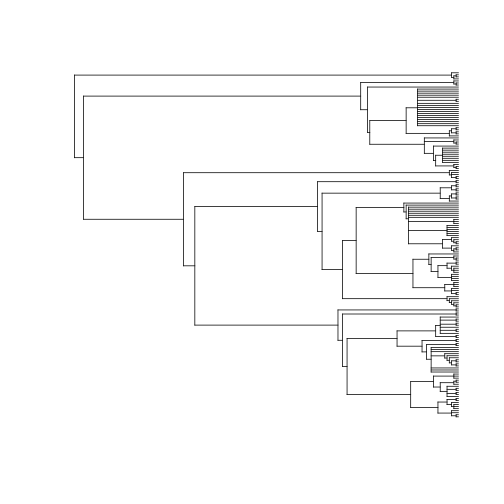
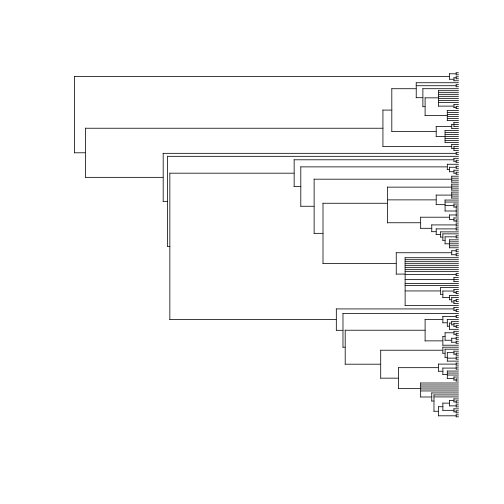
rerun vignette, change vignette file name to just brranching

Changed region(s): [[0.1488, 0.1488, 0.9226, 0.8333]]

diff --git a/inst/vign/brranching.md b/inst/vign/brranching.md
@@ -7,14 +7,7 @@
 brranching - an interface to phylogenetic data
 ======
 
-```{r echo=FALSE}
-knitr::opts_chunk$set(
-  comment = "#>",
-  collapse = TRUE,
-  warning = FALSE,
-  message = FALSE
-)
-```
+
 
 ## Description
 
@@ -24,18 +17,21 @@ Brranching is an interface to many different sources of phylogenetic data (curre
 
 Stable CRAN version
 
-```{r eval=FALSE}
+
+```r
 install.packages("brranching")
 ```
 
 Or dev version
 
-```{r eval=FALSE}
+
+```r
 install.packages("devtools")
 devtools::install_github("ropensci/brranching")
 ```
 
-```{r}
+
+```r
 library("brranching")
 ```
 
@@ -43,17 +39,42 @@ library("brranching")
 
 Query Phylomatic for a phylogenetic tree.
 
-```{r}
+
+```r
 taxa <- c("Poa annua", "Phlox diffusa", "Helianthus annuus")
 tree <- phylomatic(taxa=taxa, get = 'POST')
 plot(tree, no.margin=TRUE)
 ```
 
+![plot of chunk unnamed-chunk-5](figure/unnamed-chunk-5-1.png)
+
 You can pass in up to about 5000 names. We can use [`taxize`](https://github.com/ropensci/taxize/) to get a random set of plant species names.
 
-```{r}
+
+```r
 library("taxize")
 spp <- names_list("species", 200)
 out <- phylomatic(taxa = spp, get = "POST")
 plot(out, show.tip.label = FALSE)
 ```
+
+![plot of chunk unnamed-chunk-6](figure/unnamed-chunk-6-1.png)
+
+## Bladj
+
+
+```r
+library("phylocomr")
+ages_df <- data.frame(
+  a = c('malpighiales','eudicots','ericales_to_asterales','plantaginaceae',
+        'malvids', 'poales'),
+  b = c(81, 20, 56, 76, 47, 71)
+)
+phylo_file <- system.file("examples/phylo_bladj", package = "phylocomr")
+phylo_str <- readLines(phylo_file)
+x <- rbladj(tree = phylo_str, ages = ages_df)
+library(ape)
+plot(x)
+```
+
+![plot of chunk unnamed-chunk-7](figure/unnamed-chunk-7-1.png)
